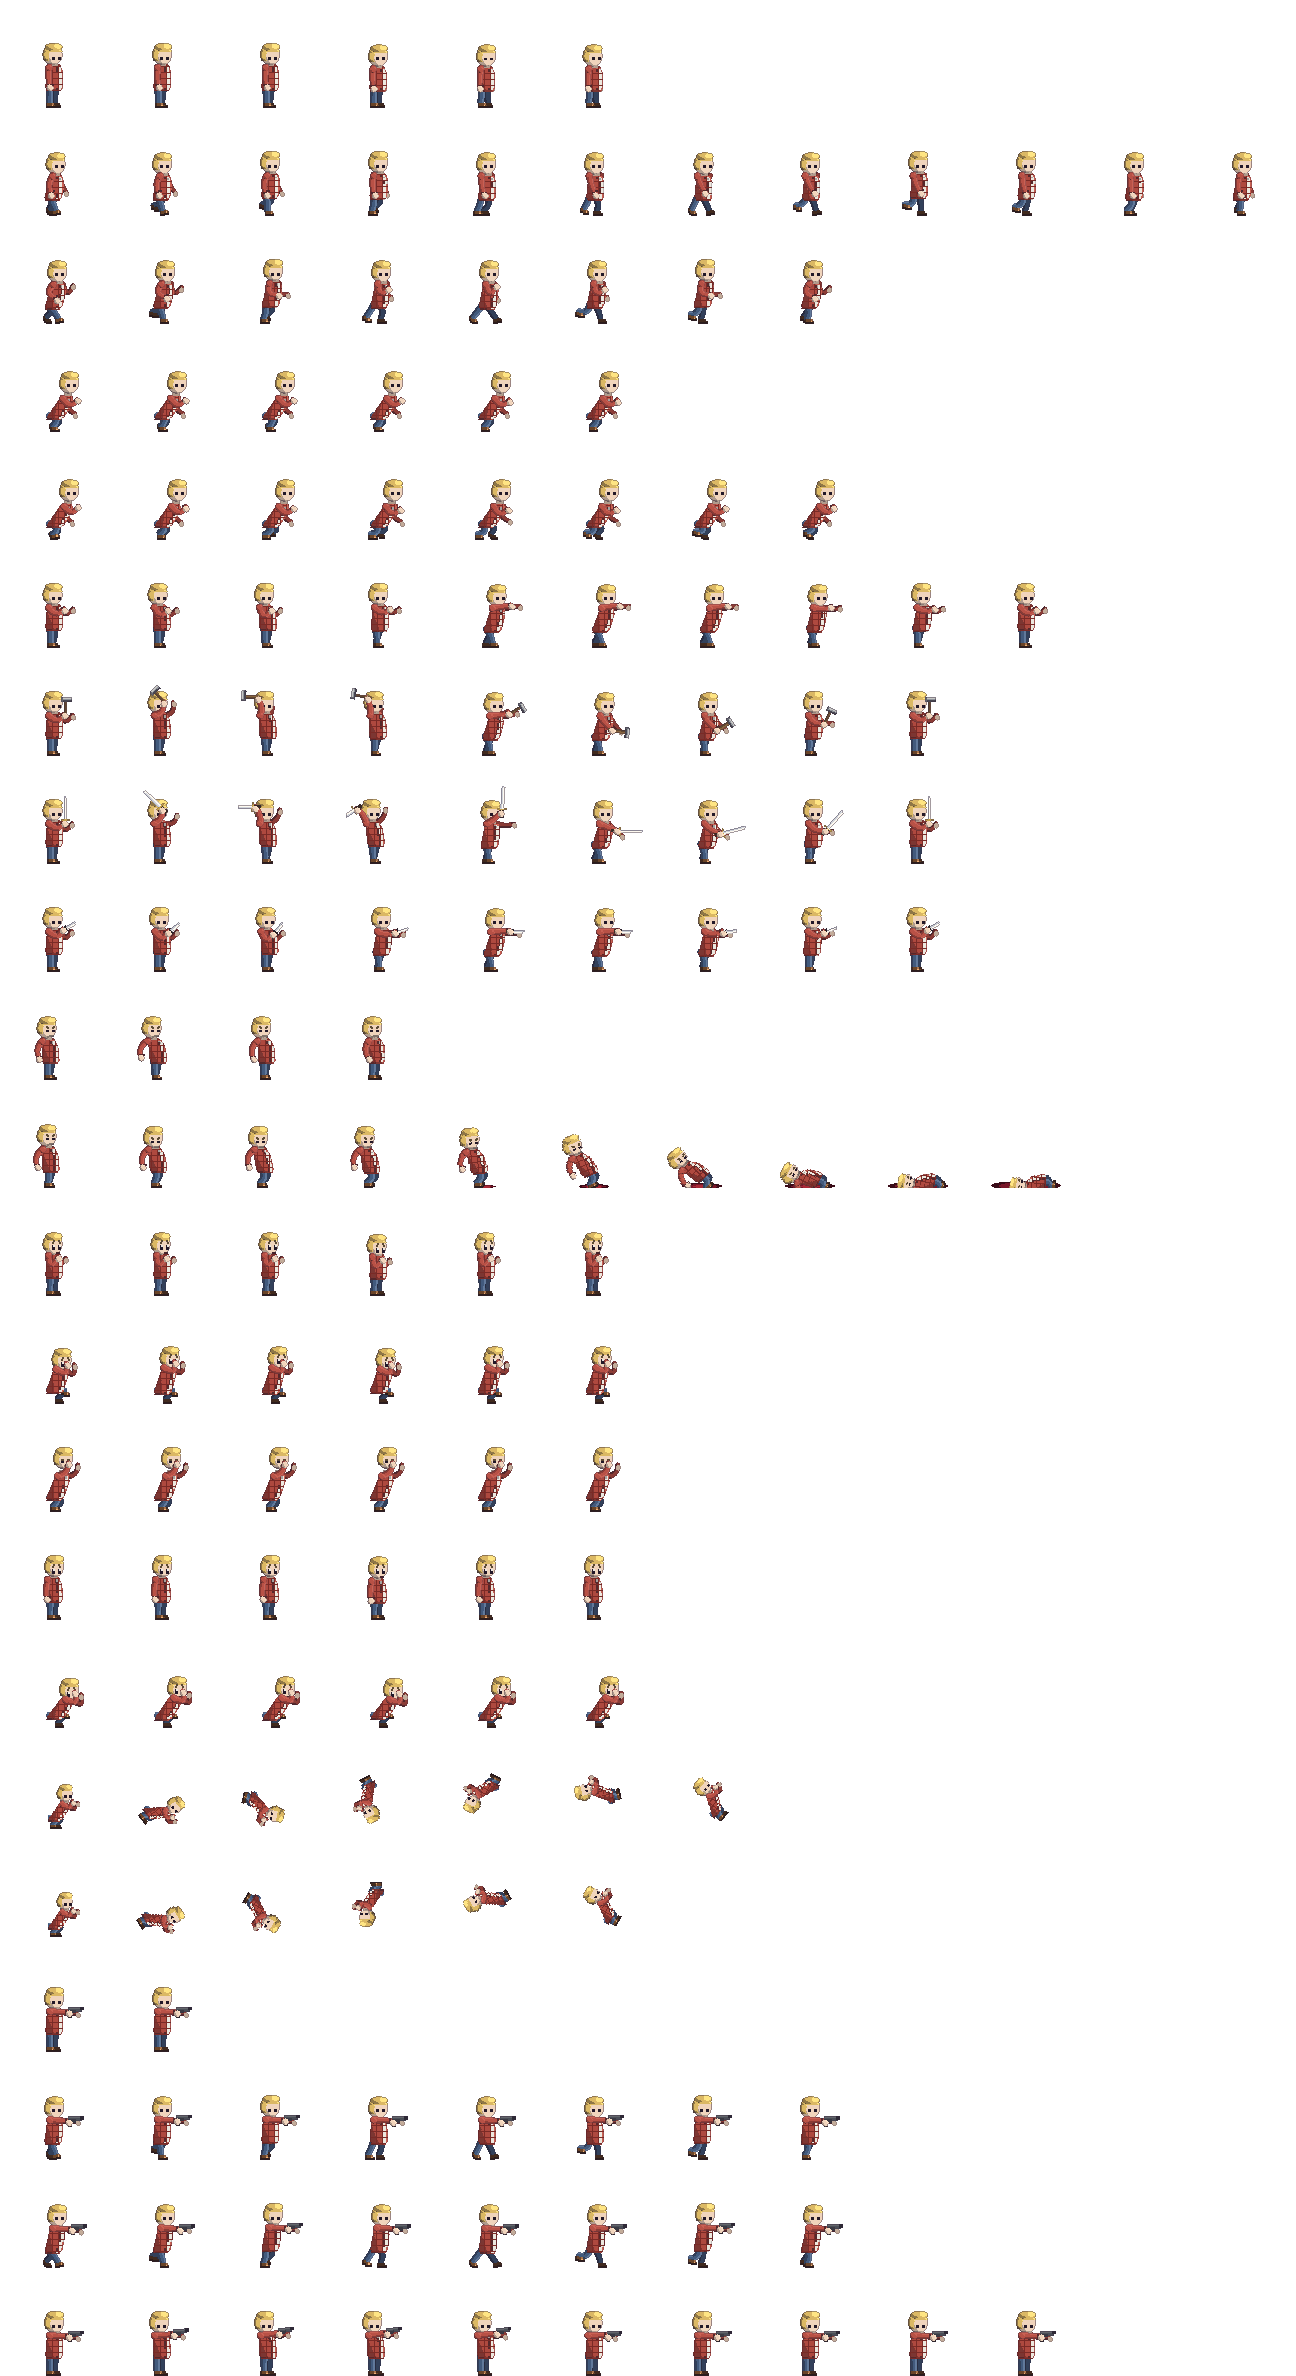
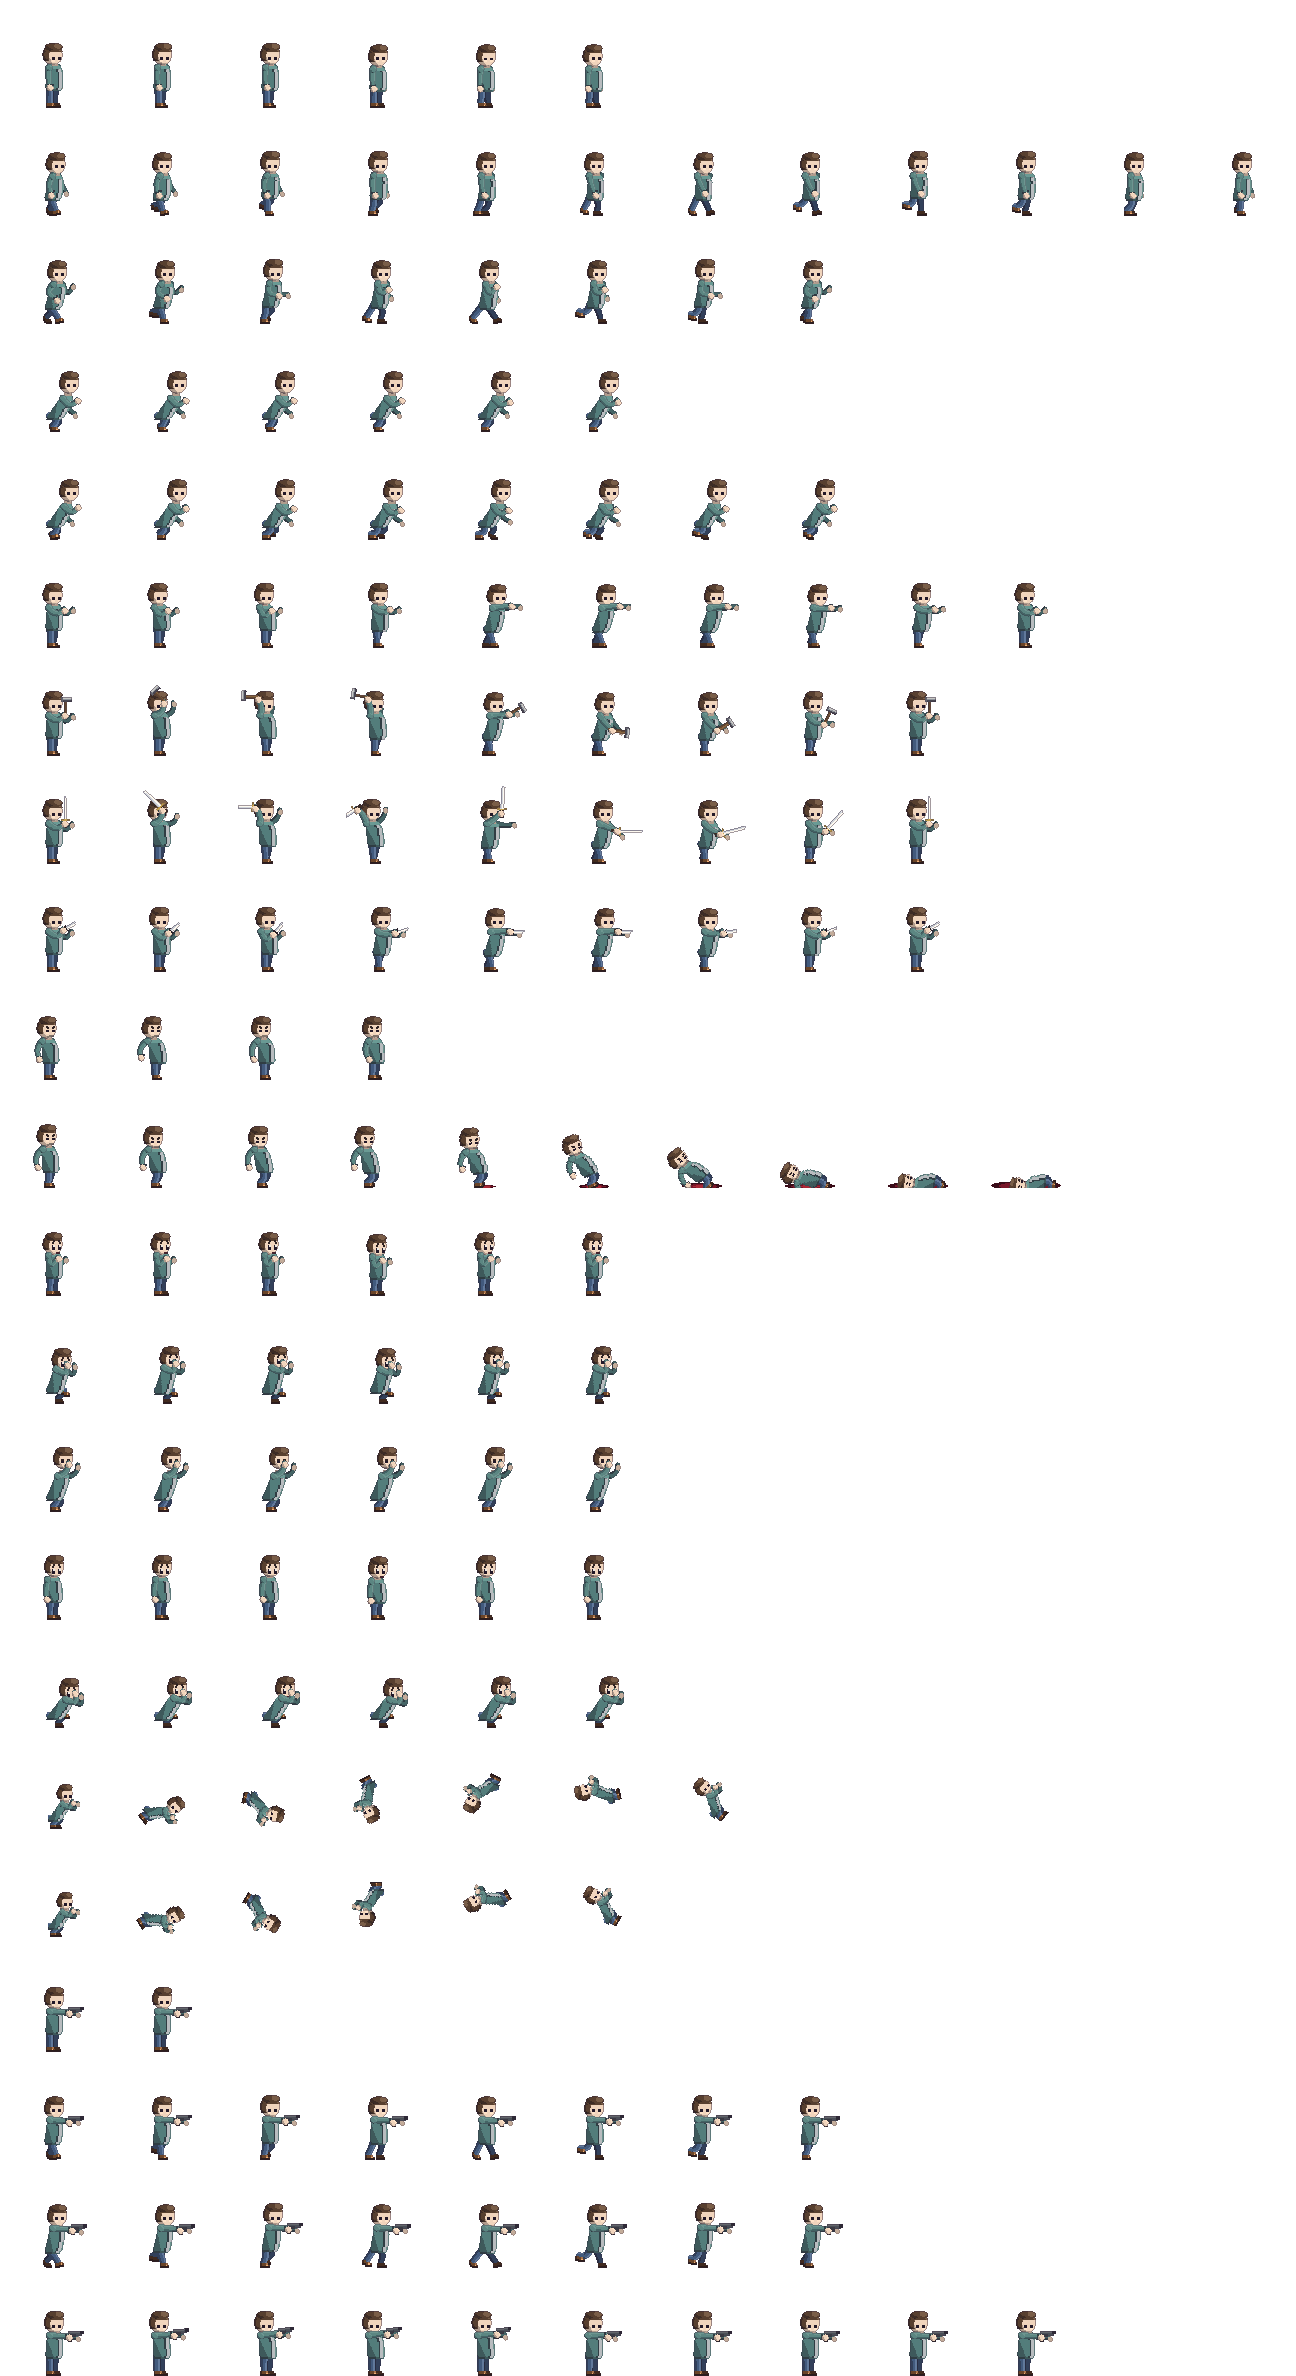
Joe: dark brown hair and a faded teal jumper, no longer blond mop and red coat
Claude-Session: https://claude.ai/code/session_01ANpZxvvcv9nsgWy9iXumGL

diff --git a/tools/art/people.py b/tools/art/people.py
@@ -913,9 +913,9 @@ PLAYERS = [
     # After the hand-drawn heads ("they actually look worse now… scarier than the monsters") the four are in the reference's manner again: a big
     # soft head of hair, a small pale face that is two dark eyes and nothing else, no neck, an oversized garment. WHO they are is carried by the
     # hair's shape and colour, the skin, and what they wear — not by features too small to draw.
-    # Joe, the tenant — a white man: a mop of blond hair; a red checked shirt open over a white tee; jeans; brown boots
-    dict(name='joe', shape='m', coat='b8453a', skin='f0d4bc', hair='e0b858', hairstyle='mop', legs='3f5a82', shoes='6a4428', garment='jacket',
-         open='ece8de', drop=2, marks=(('check', '7a2a26', 4),), carry='hammer', face=dict(eye=(2, 2), gap=2)),
+    # Joe, the tenant — a white man: dark brown mess of hair; a faded teal jumper over a grey tee (nobody's idea of a hero); jeans; brown boots
+    dict(name='joe', shape='m', coat='4f7f7c', skin='f0d4bc', hair='5a3e2c', hairstyle='mop', legs='3f5a82', shoes='6a4428', garment='jumper',
+         open='b8bcc0', drop=2, marks=(('yoke', '6a9a94', 2),), carry='hammer', face=dict(eye=(2, 2), gap=2, under=True)),
     # Vivianne, the neighbour who runs — a white woman: golden hair swept across and tied high; a coral zip-up, white across the shoulders; leggings
     dict(name='vivianne', shape='f', coat='e8705e', skin='f4dcc8', hair='eec25a', hair2='fbe9a4', hairstyle='ponytail', band='e85a9a', legs='2e2c38',
          shoes='ece8e0', garment='jumper', drop=2, marks=(('yoke', 'f4f0e8', 2), ('zip', 'f4f0e8')), leg_stripe='e8705e', carry='torch',

diff --git a/docs/STATUS_LOG.md b/docs/STATUS_LOG.md
@@ -2594,3 +2594,4 @@ round at the bottom, above the "Not started" line. An entry marked SUPERSEDED is
 - `tools/art/player_rigs.py`: crouch is now a staggered stealth CREEP (both feet planted via `plant()`, back foot heel-up, head lifted with `head_dy/head_dx`), not a flat-footed squat; `crouch_walk` has a swing-foot lift; idle shifts weight, walk has shoulder counter-twist (`twist`) and arm follow-through.
 - New animations `hide_inside` (wardrobe), `hide_in` (bath / curtain), `hide_behind` (sofa / armchair), `hide_flat` (flat to a wall beside a doorway), `hide_dark`. `PlayerRig.hide_anim(spot)` maps a spot to its pose; `player.gd` plays it while `hide_spot` is set (falls back to crouch if the sprite lacks it).
 - Suites run: player_rig, stealth (both pass) + the gate's audits. NOT run: the full suite. Not seen in a live capture yet.
+- Joe redressed (owner: "Guybrush Threepwood absorbed Trump"): blond swept mop + red check shirt → dark brown mess of hair, faded teal jumper over a grey tee. Sheet regenerated; player_rig suite passes. Other three unchanged.
